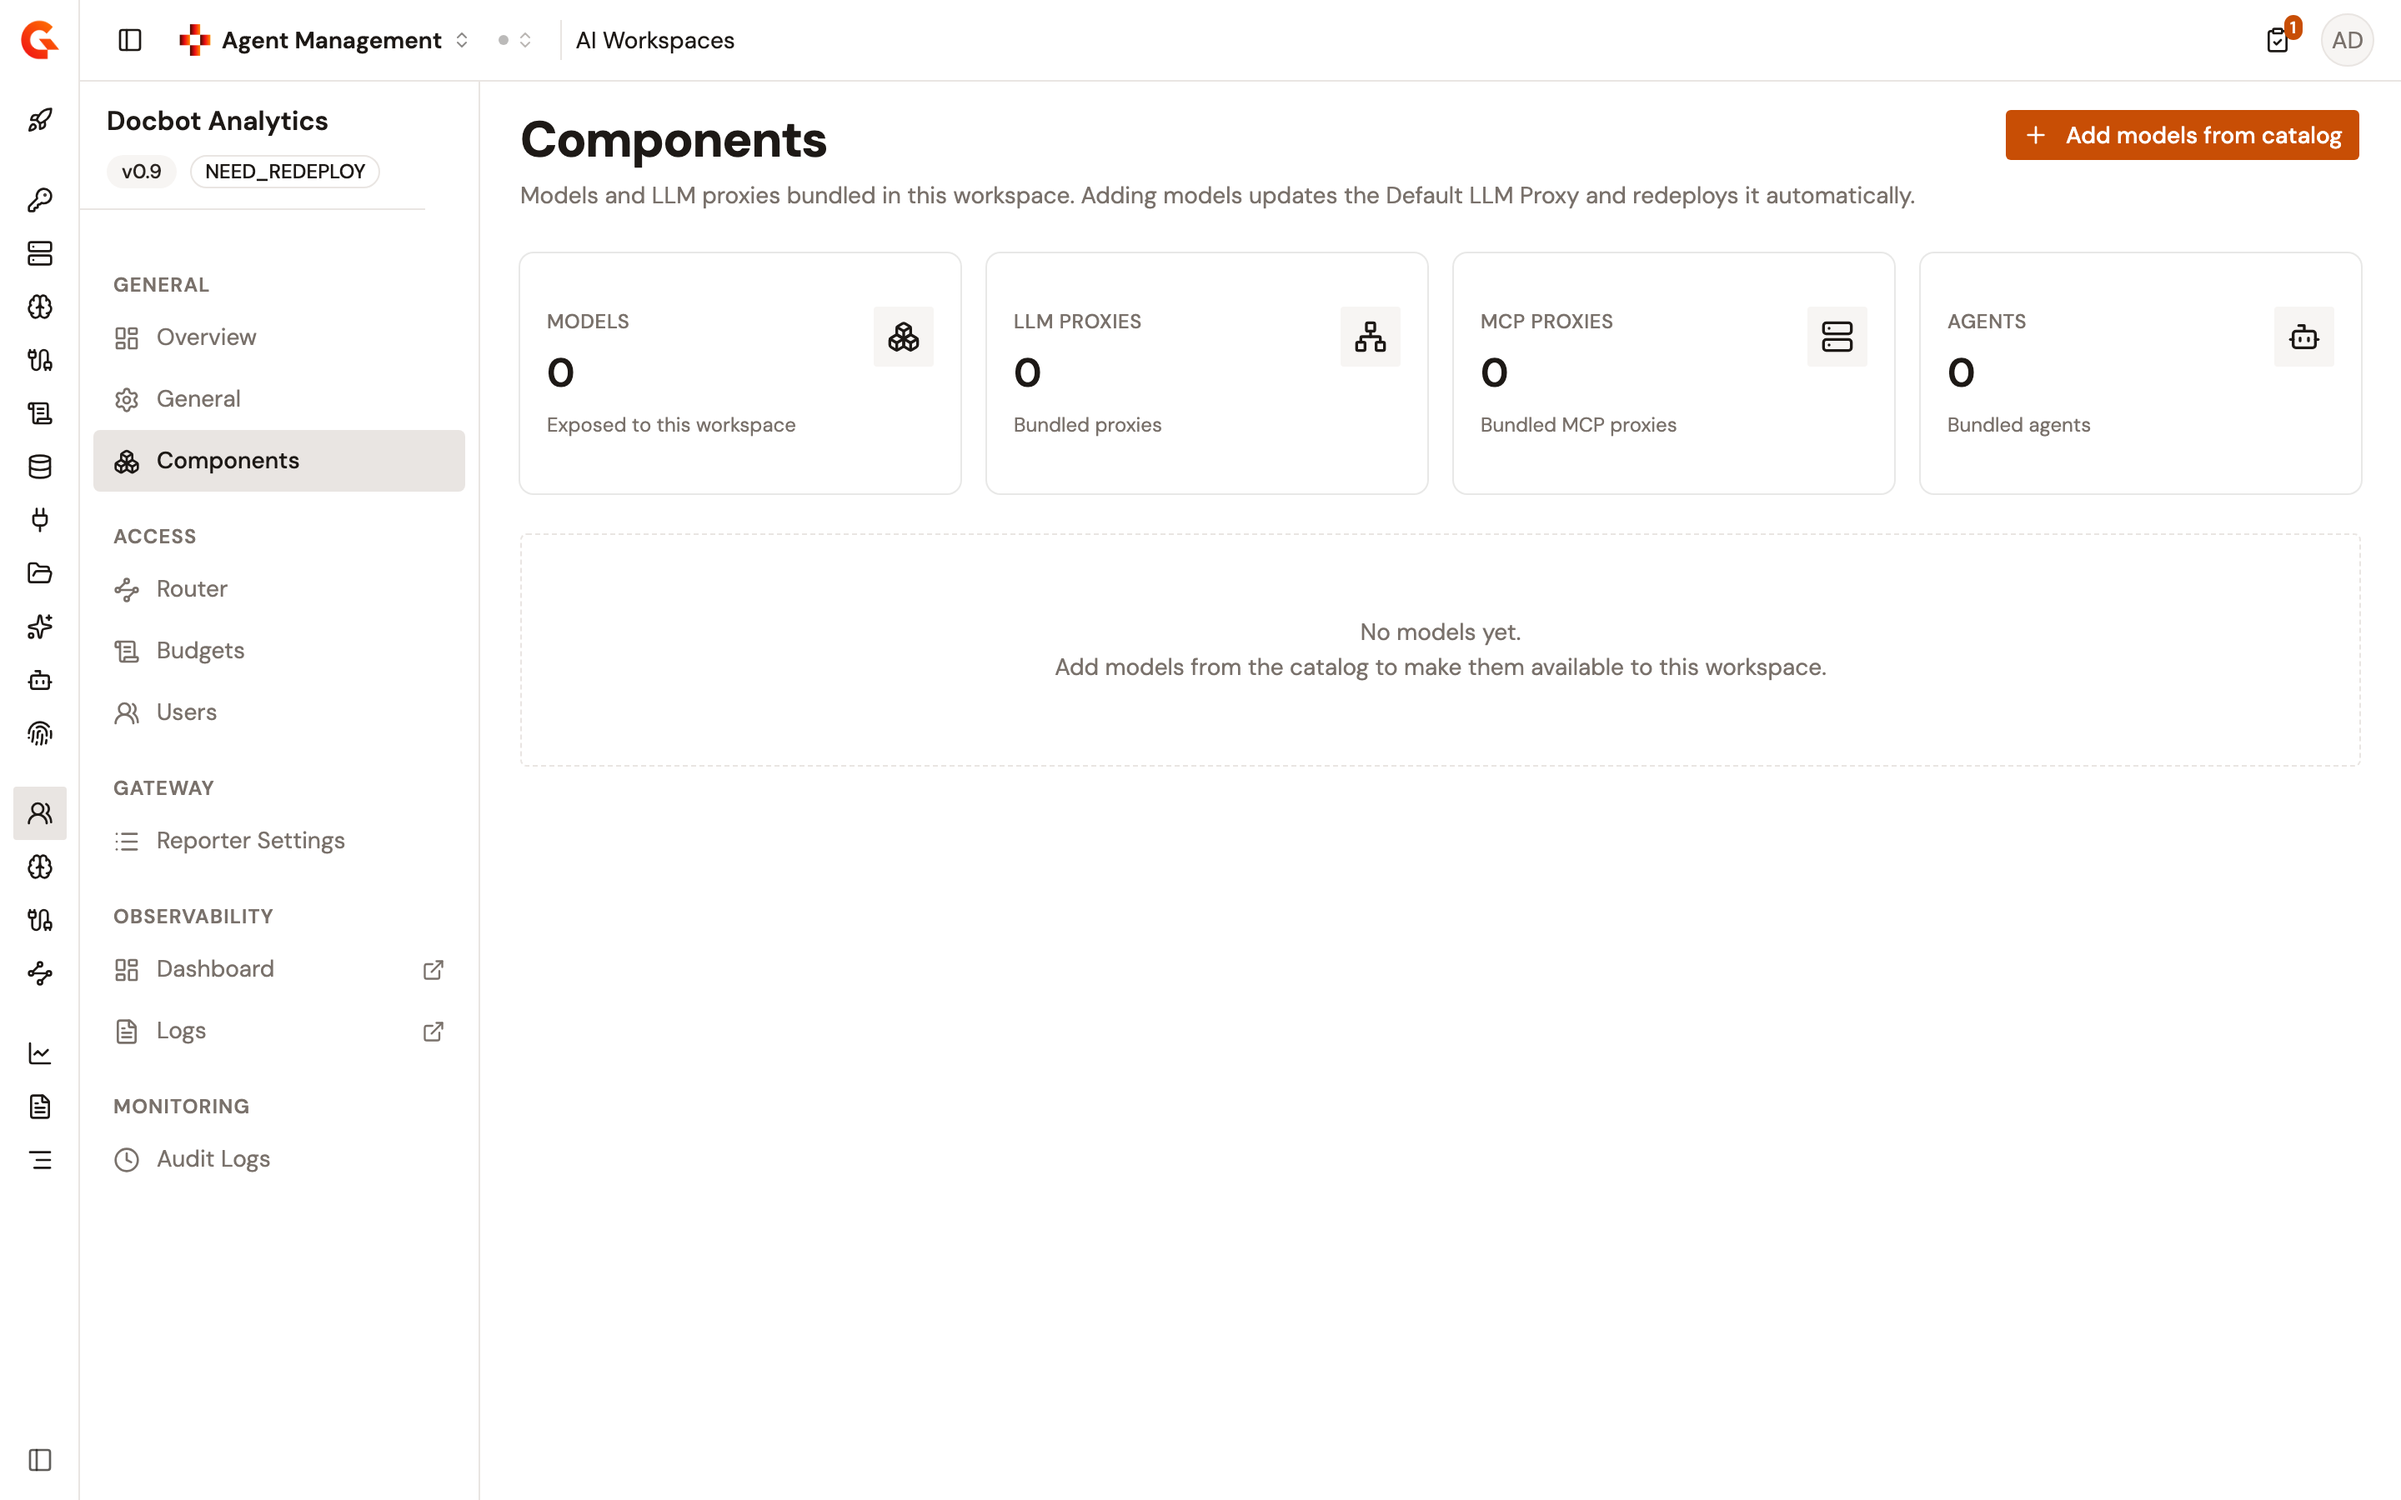
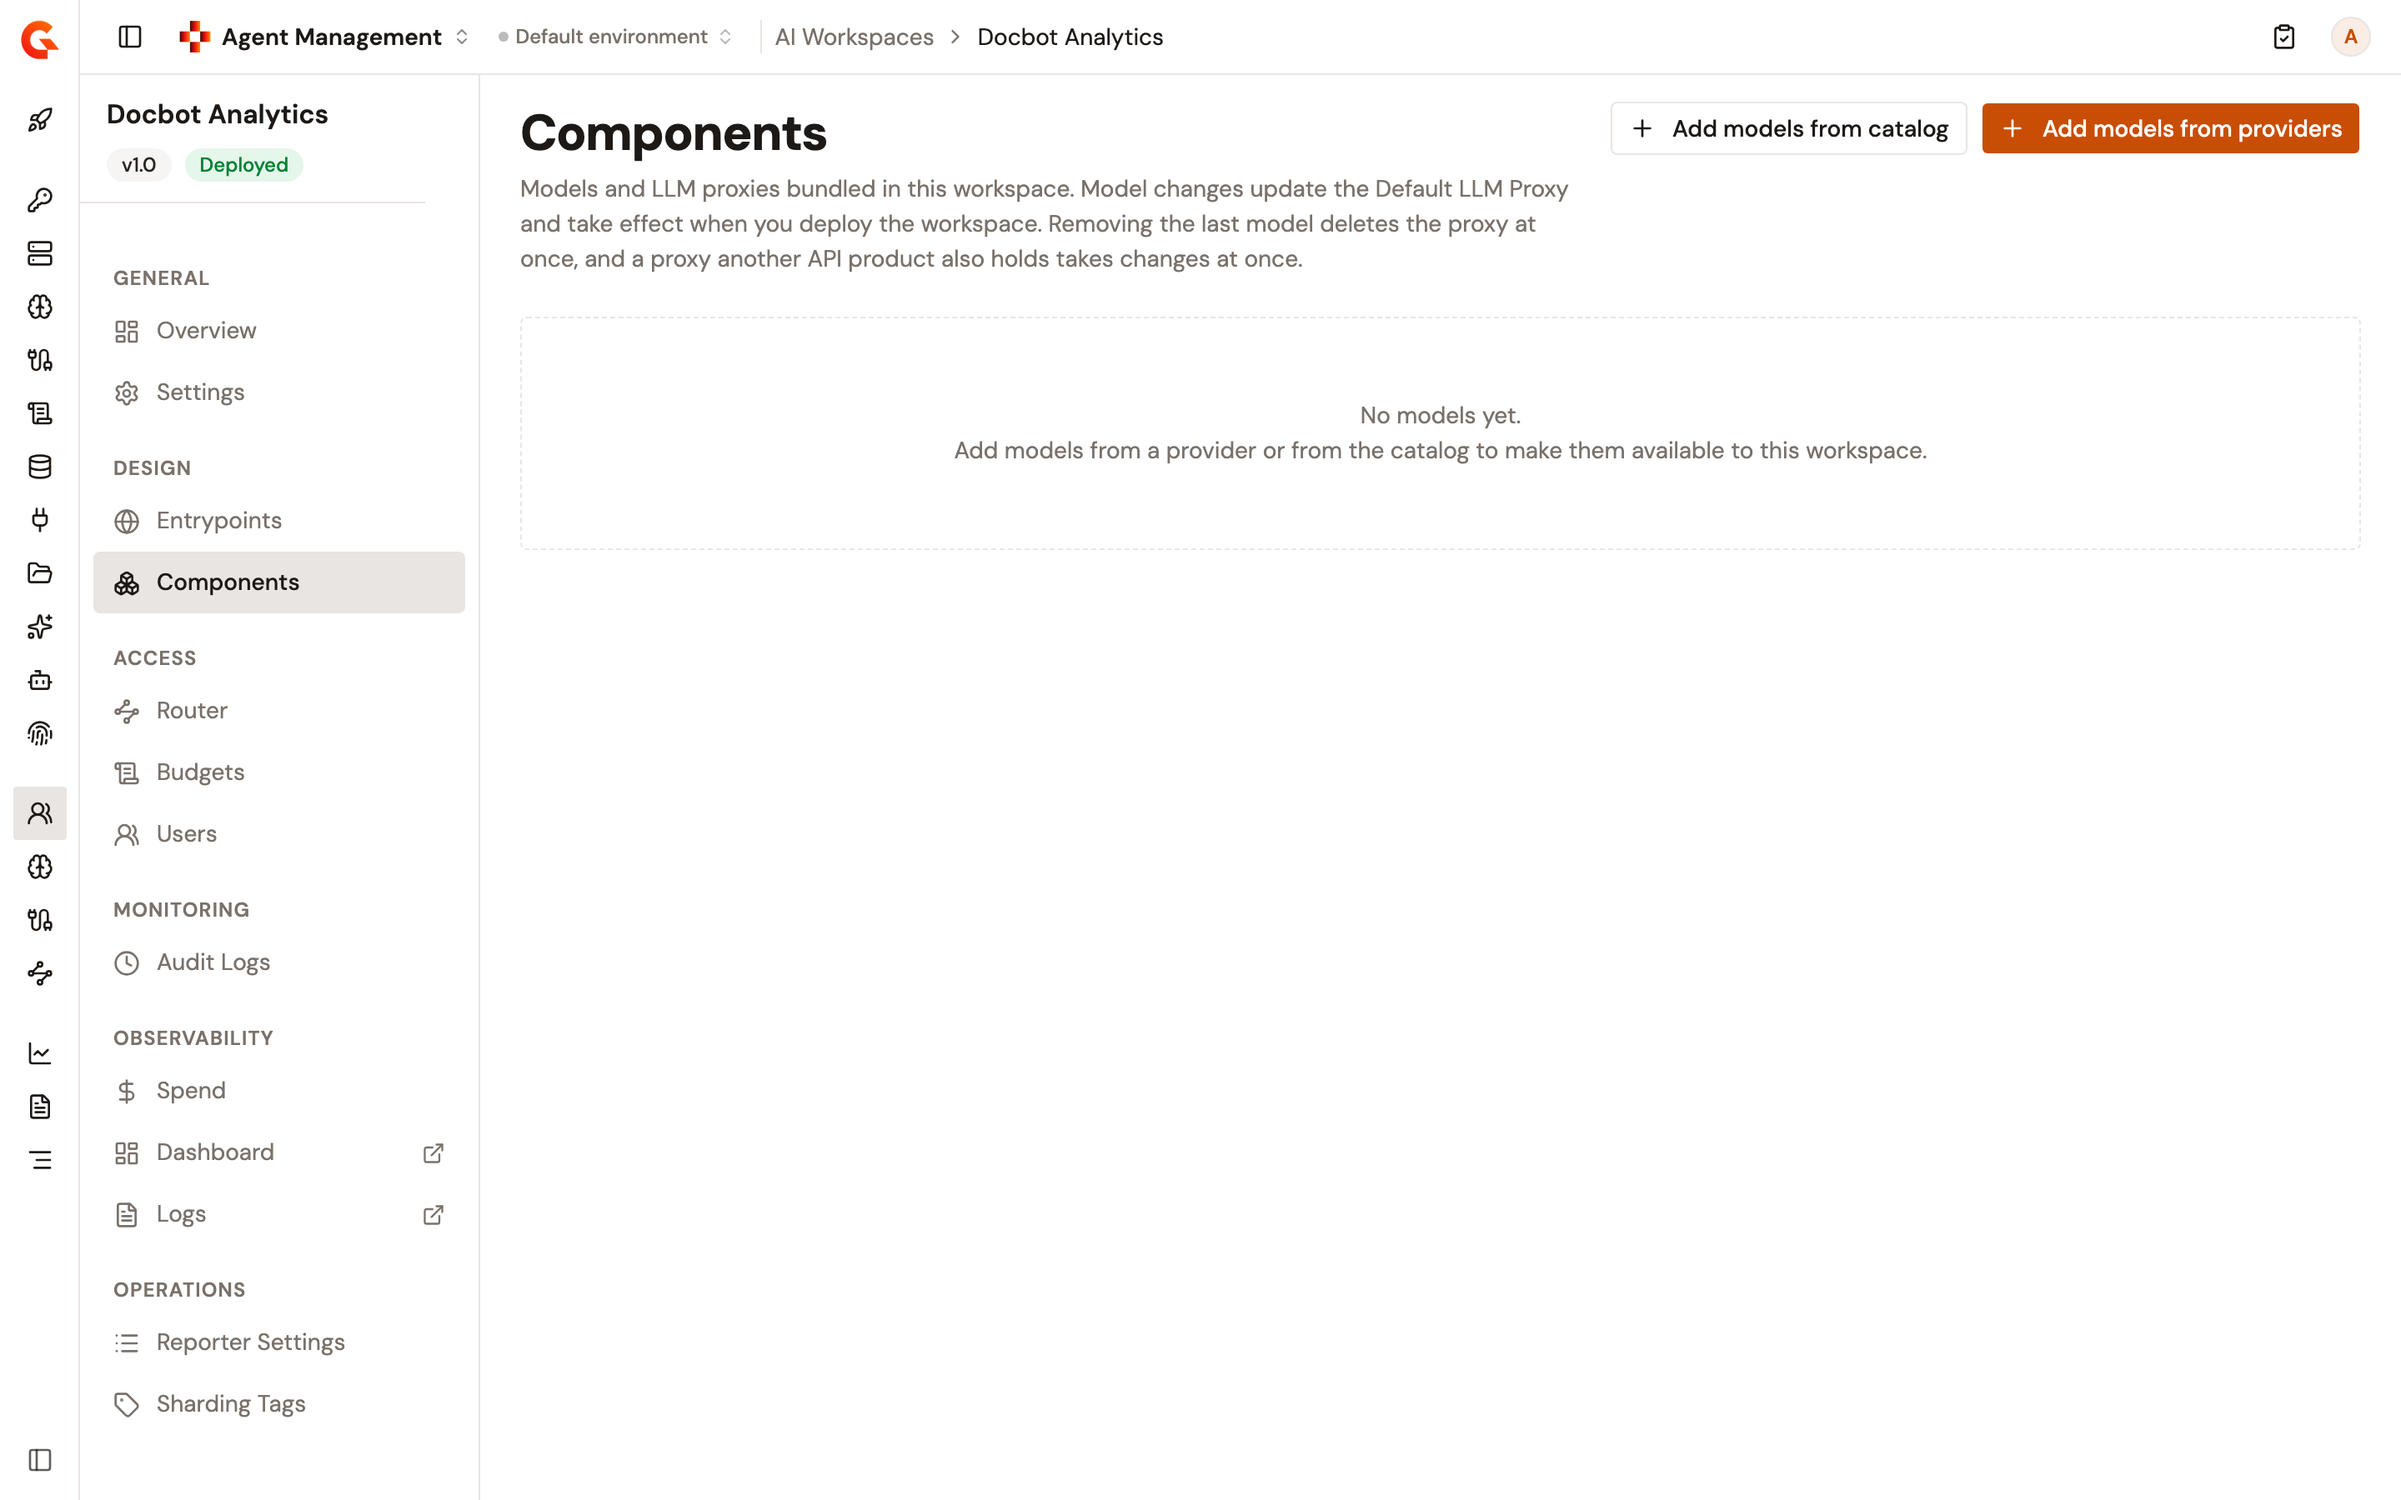
docs(gamma-4.13): recapture the AI Workspace Components figures (AIAM-1203)
Both figures on Add models to an AI workspace now show Components under
Design in the workspace menu. Captured from a local stack on APIM
4.13.x-0455d57 images with Agent Management 5.0.0-alpha.99 loaded, using
synthetic data only.

The alt text follows the new images: the empty page no longer shows cards,
and the catalog offers GPT-5.4 mini where it offered GPT-4o mini.

diff --git a/docs/gamma/4.13/agent-management/build/add-models-to-an-ai-workspace.md b/docs/gamma/4.13/agent-management/build/add-models-to-an-ai-workspace.md
@@ -23,7 +23,7 @@ To add models to an AI Workspace, complete the following steps:
 3. Select the workspace.
 4. Under **Design**, select **Components**.
 
-    <figure><img src="../.gitbook/assets/gamma-aim-ai-workspace-components-empty.png" alt="The Components page of a workspace with no models yet, showing the Models, LLM Proxies, MCP Proxies, and Agents cards and the Add models from catalog button"><figcaption><p>The Components page before the first model is added</p></figcaption></figure>
+    <figure><img src="../.gitbook/assets/gamma-aim-ai-workspace-components-empty.png" alt="The Components page of a workspace with no models yet, selected under Design in the workspace menu, with the Add models from catalog and Add models from providers buttons"><figcaption><p>The Components page before the first model is added</p></figcaption></figure>
 
 5. Select **Add models from catalog**.
 6. Select the models to add. Each row carries the model name, its provider, and the query name callers send. Search by any of the three to narrow the list.
@@ -84,4 +84,4 @@ To verify the models are available to the workspace, follow these steps:
 4. Call the `/models` path of the entrypoint URL with that key, and confirm the response lists the models you added.
 5. Call the `/chat/completions` path with a model the workspace doesn't hold, and confirm the gateway returns `400` with the `model_not_found` code.
 
-    <figure><img src="../.gitbook/assets/gamma-aim-ai-workspace-components-models.png" alt="The Components page of a workspace listing four models grouped under the OpenAI and Anthropic providers, with the Aliases column showing the alias fast on GPT-4o mini"><figcaption><p>Models grouped by provider on the Components page</p></figcaption></figure>
+    <figure><img src="../.gitbook/assets/gamma-aim-ai-workspace-components-models.png" alt="The Components page of a workspace listing four models grouped under the OpenAI and Anthropic providers, with the Aliases column showing the alias fast on GPT-5.4 mini"><figcaption><p>Models grouped by provider on the Components page</p></figcaption></figure>
